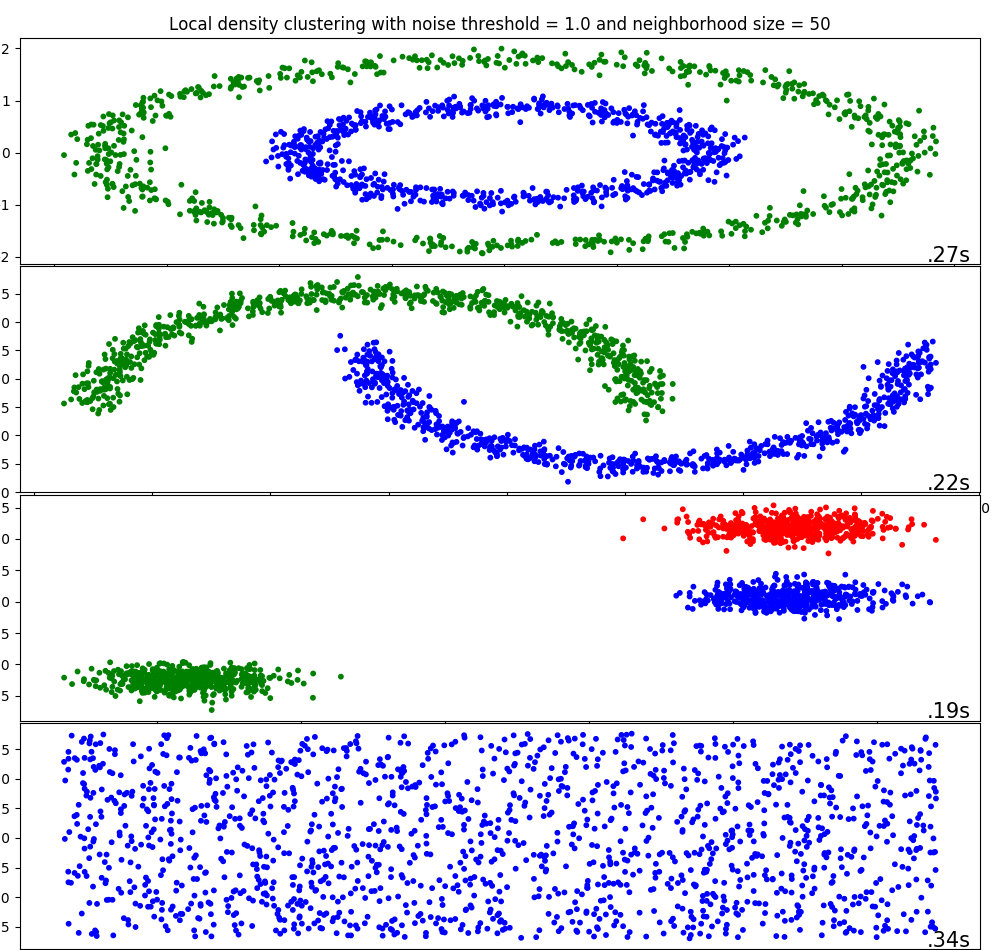
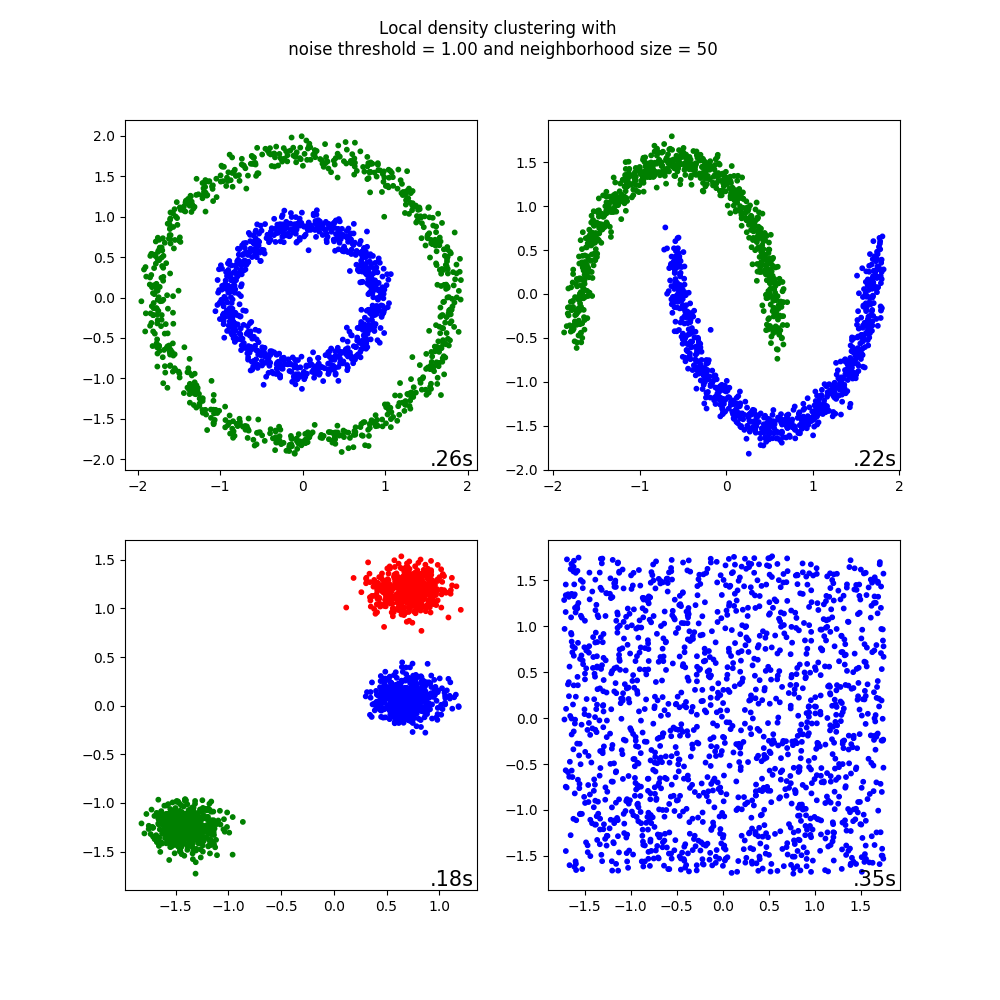
Refined example for ease for use

diff --git a/example/example2.py b/example/example2.py
@@ -33,8 +33,18 @@ colors = np.hstack([colors] * 20)
 
 plot_num = 1
 
-plt.figure(figsize=(2.5, 10))
-plt.subplots_adjust(left=.02, right=.98, bottom=.001, top=.96, wspace=.05, hspace=.01)
+plt.figure(figsize=(10, 10))
+#plt.subplots_adjust(left=.02, right=.98, bottom=.001, top=.96, wspace=.05, hspace=.01)
+
+####################
+###################
+
+noise_threshold=1.0
+NH_size=50
+
+##################
+#################
+
 
 datasets = [noisy_circles, noisy_moons, blobs, no_structure]
 for i_dataset, dataset in enumerate(datasets):
@@ -44,21 +54,20 @@ for i_dataset, dataset in enumerate(datasets):
 
     # create clustering estimators
 
-    dc=DCluster(noise_threshold=1.0,NH_size=50)
+    dc=DCluster(noise_threshold=noise_threshold,NH_size=NH_size)
     s=time.time()
     cluster_label, idx_centers, rho, delta, kde_tree =dc.fit(X)
     dt=time.time()-s
 
     n_center=len(idx_centers)
 
-    plt.subplot(4,1,plot_num)
-    if plot_num == 1:
-            plt.title("Local density clustering with noise threshold = 1.0 and neighborhood size = 50")
+    plt.subplot(2,2,plot_num)
     plt.scatter(X[:, 0], X[:, 1], color=colors[cluster_label].tolist(), s=10)
     plt.text(.99, .01, ('%.2fs' % (dt)).lstrip('0'),
                  transform=plt.gca().transAxes, size=15,
                  horizontalalignment='right')
     plot_num+=1
 
-
+plt.suptitle("Local density clustering with \n noise threshold = %.2f and neighborhood size = %i"%(noise_threshold,NH_size))
+#plt.tight_layout()
 plt.show()
